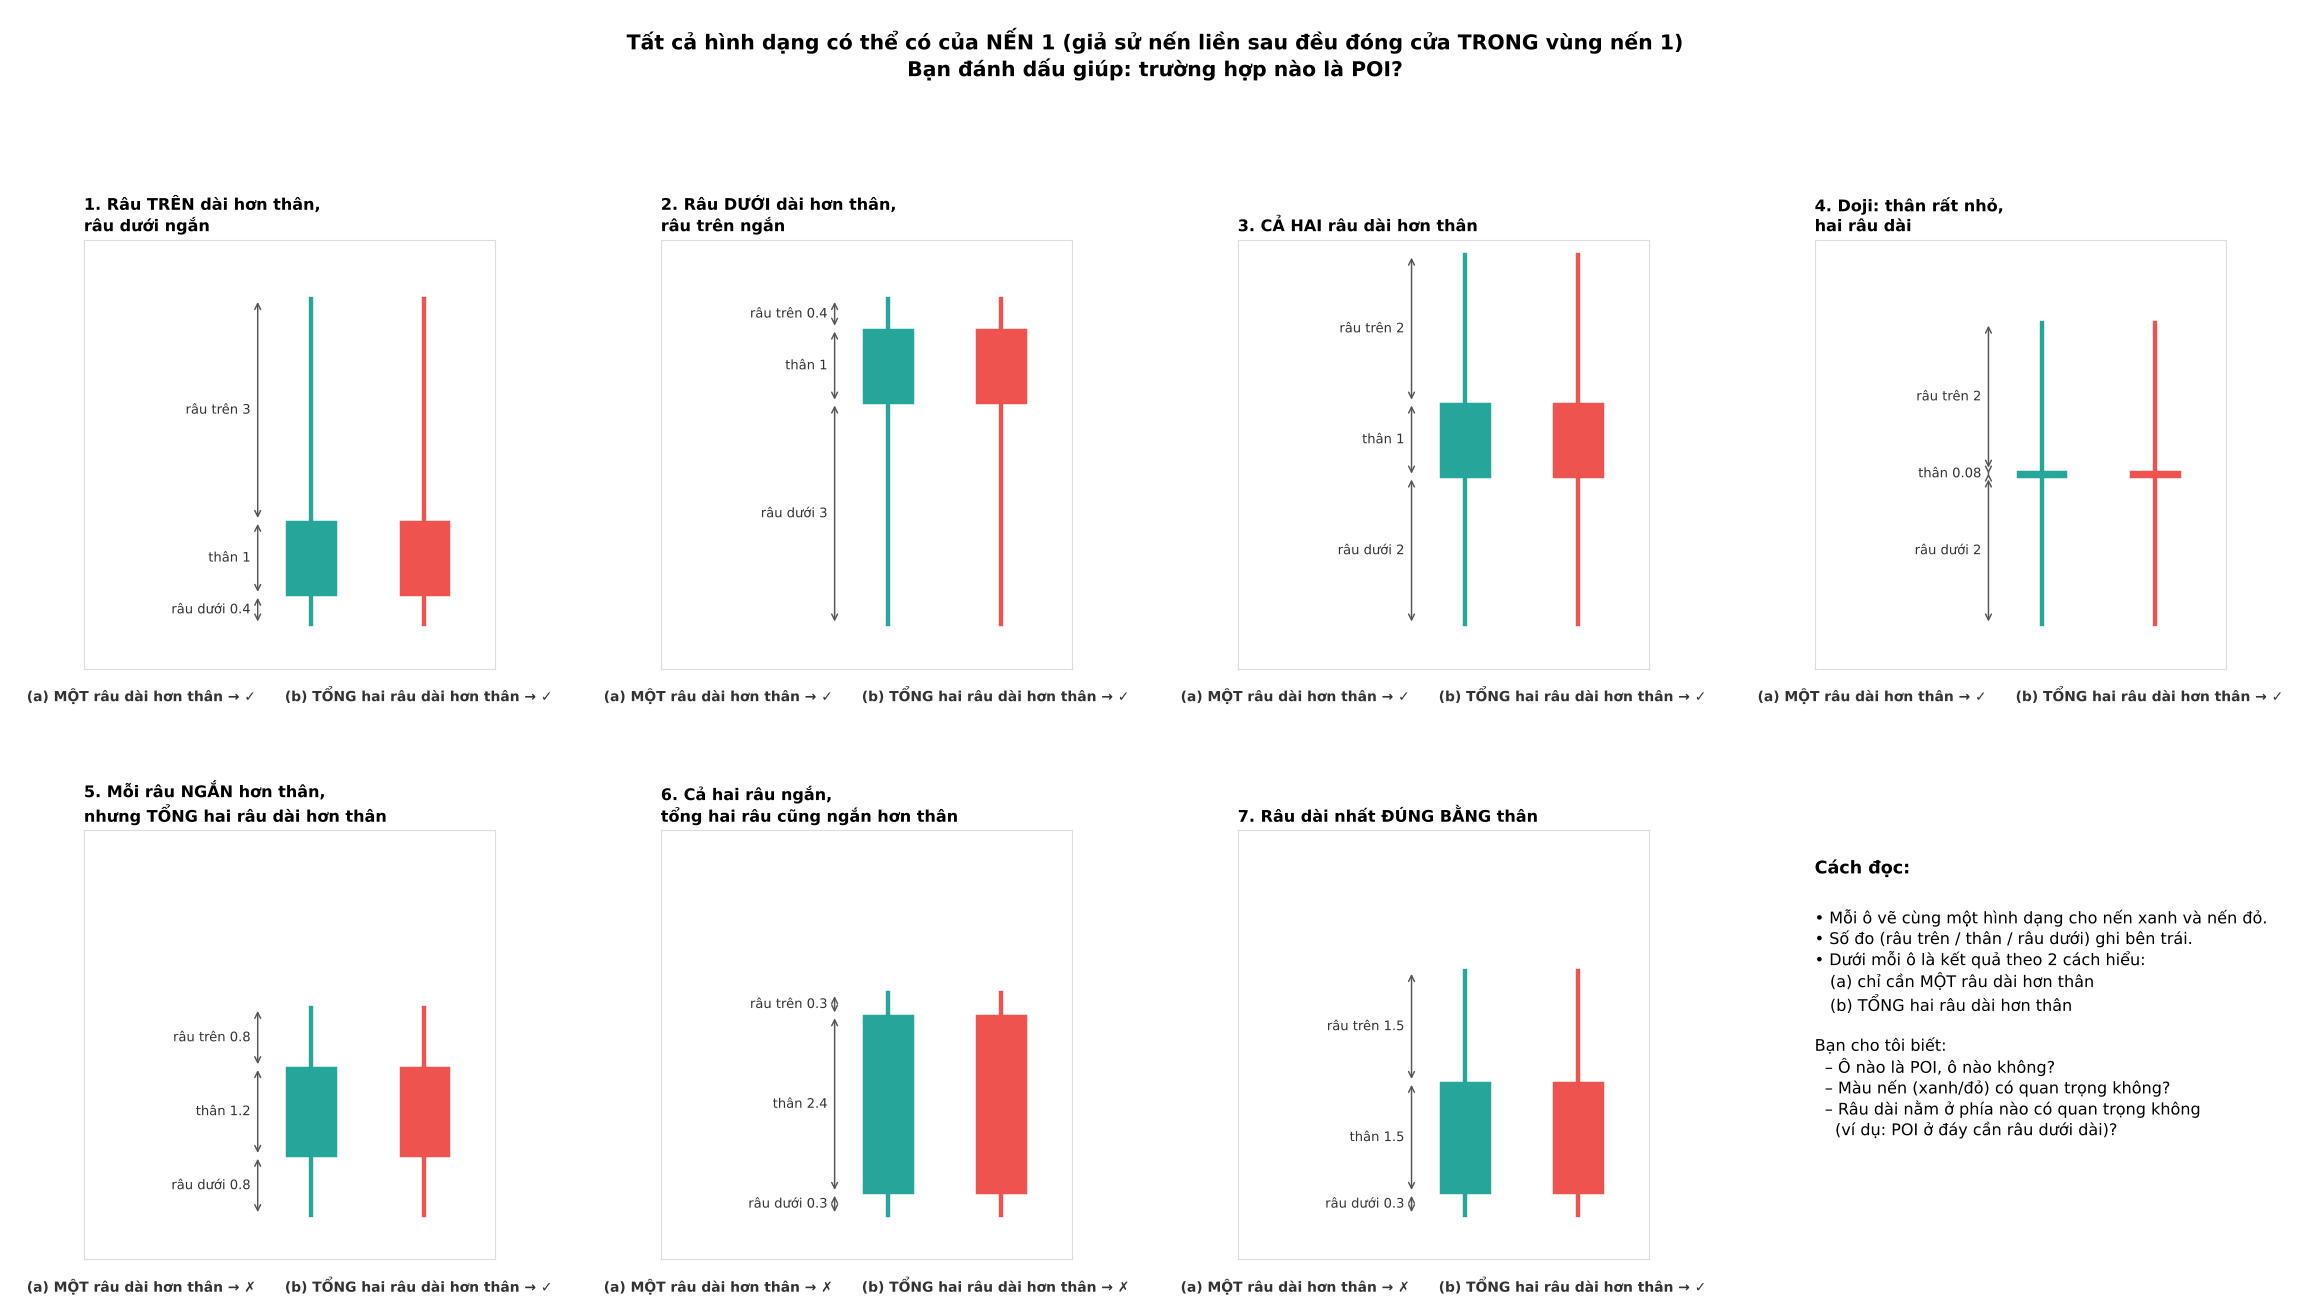
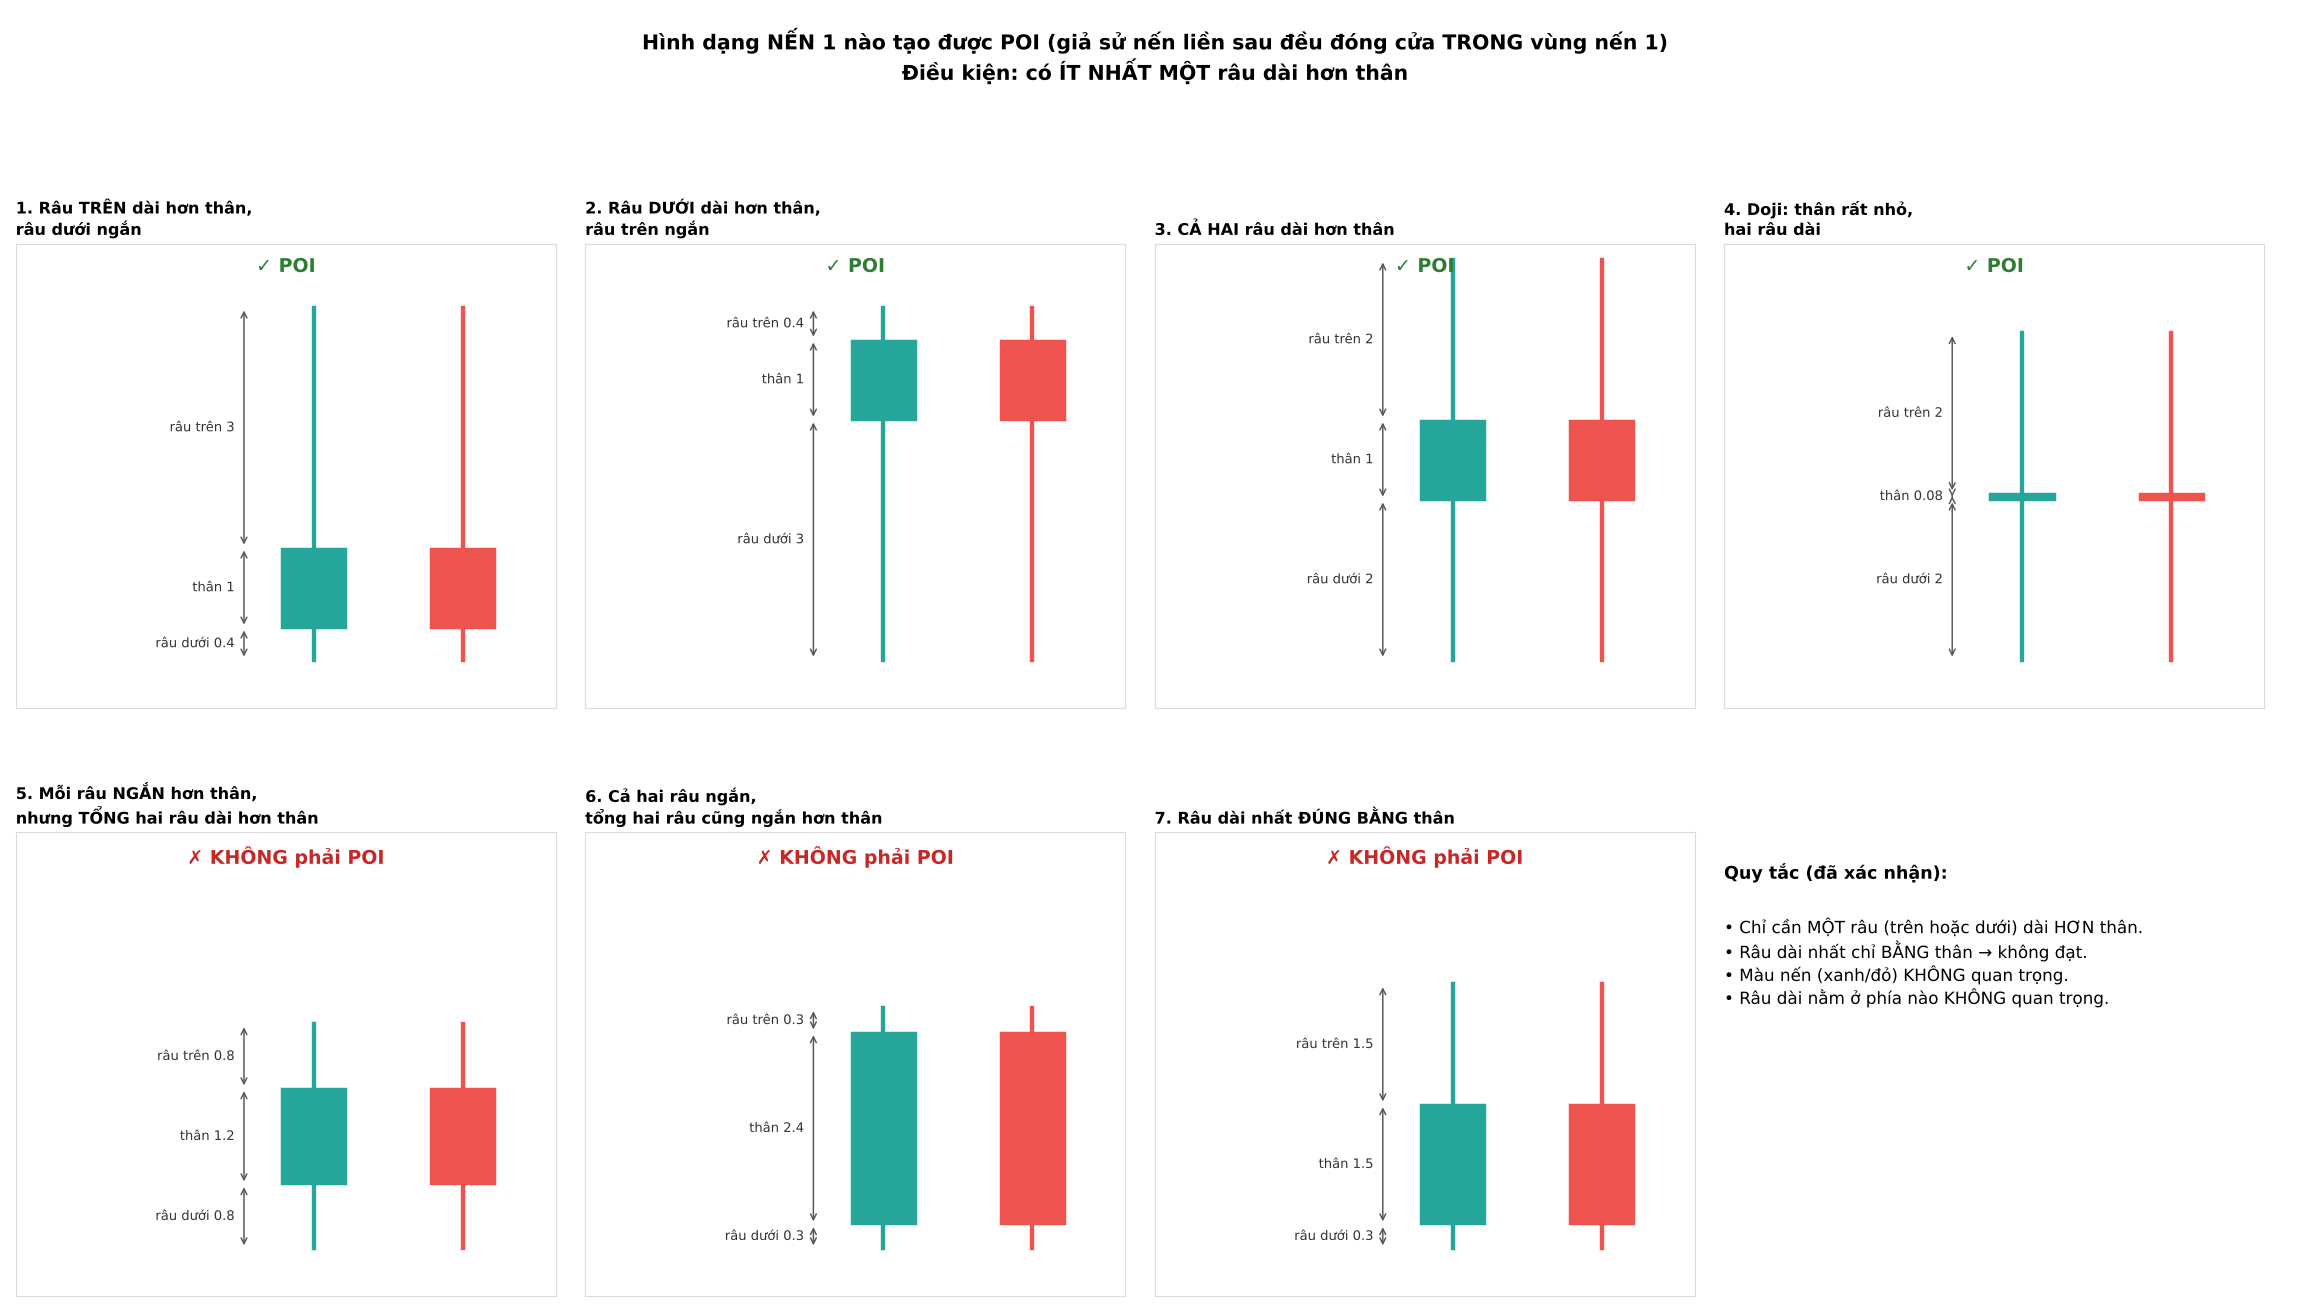
POI: chốt chỉ cần một râu dài hơn thân, màu nến và phía râu không quan trọng
Claude-Session: https://claude.ai/code/session_01QDQqkxbAsnss6apbWZAP33

diff --git a/knowledge/03-setup.md b/knowledge/03-setup.md
@@ -179,14 +179,13 @@ Ví dụ chart thật: `examples/01-dinh-day-xauusd-h4.jpg`
 **POI theo cách của người dùng (đã xác nhận, xem `examples/22-poi-tranh-chap.png`):**
 - POI là **vùng giá tranh chấp giữa bên mua và bên bán**, thể hiện qua hình thức nến.
 - Điều kiện:
-  1. **Nến 1 (nến liền trước) phải có RÂU dài hơn THÂN.** Thân dài hơn râu → không phải POI.
+  1. **Nến 1 (nến liền trước) phải có ÍT NHẤT MỘT RÂU (trên hoặc dưới) dài HƠN THÂN.** Râu dài nhất chỉ bằng thân, hoặc chỉ tổng hai râu mới dài hơn thân → không phải POI. **Màu nến không quan trọng. Râu dài nằm ở phía nào không quan trọng.** (Xem `examples/23-poi-hinh-dang-nen.png`: ô 1–4 là POI, ô 5–7 không.)
   2. **Nến liền sau** có giá đóng cửa **KHÔNG thoát** khỏi vùng high–low của nến 1. Chỉ xét giá đóng cửa; râu nến sau vượt ra ngoài vẫn được.
   3. Giá đóng cửa **ĐÚNG BẰNG** high/low của nến 1 → chưa thoát → **vẫn là POI**.
 - **Vùng POI = toàn bộ nến 1, tính cả râu** (từ high đến low).
 - Nhiều nến liên tiếp cùng đóng cửa trong vùng → **POI vẫn chỉ là nến 1**, không mở rộng.
 
 **Chưa chốt:**
-- "Râu dài hơn thân": so râu nào (râu trên, râu dưới, một trong hai, hay tổng hai râu)? Màu nến có quan trọng? Xem 7 hình dạng trong `examples/23-poi-hinh-dang-nen.png`.
 - POI nào được chọn để giao dịch; khi nào POI hết hiệu lực.
 
 ### 7.1 FVG (Fair Value Gap)
